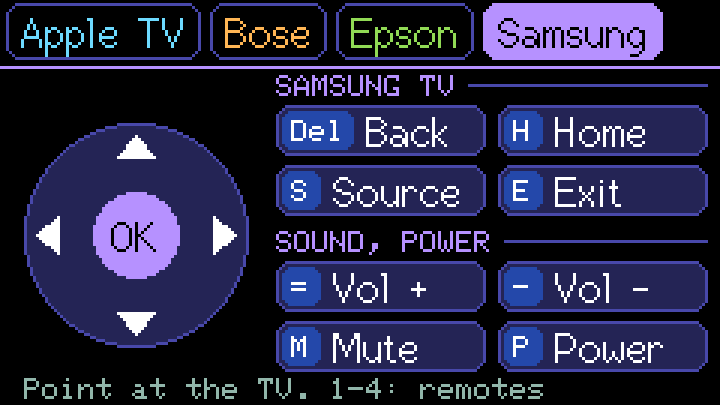
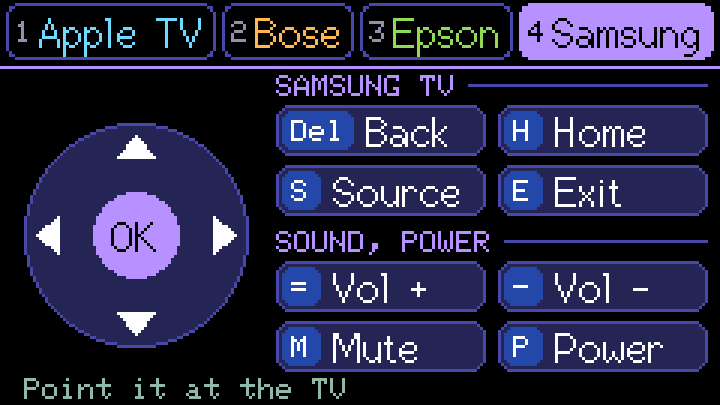
feat(cardputer): number TV Remote's tabs, and give Epson volume in place of Source
On the device every page worked, the Bose with its 600 codes, except Epson's
Source, which HDMI 1 and 2 make unneeded. So it goes, and the Epson page gets
its own remote's volume keys instead, = and -: with its sound going out over
HDMI to a soundbar, they turn that up and down. They're NECext 83 55 98 and
99, as all four Epson files have them. Its keys are now grouped like the
other pages', EPSON (Power, HDMI 1, HDMI 2, Menu, Back, Blank) and VOLUME.

Each tab now shows the number that opens it, in the small font before the
name, so all four still fit across the top; with that on screen, the idle
line no longer needs to say 1-4.

diff --git a/scripts/test_tv_remote.py b/scripts/test_tv_remote.py
@@ -260,7 +260,7 @@ void pagesScenario() {
   assert(gTvPage == Device::AppleTv && gTvBoseSet == 0);
   // 2, the Bose: its volume rocker and buttons, and the codes it's using.
   press('2'); assert(gTvPage == Device::Bose && savedBytes["tv_remote/page"] == 1);
-  for (const char* t : {"Power", "Mute", "TV input", "Bluetooth input", "Codes: 600 remote", "VOLUME", "Point at the Bose. C: other codes"}) assert(shows(t));
+  for (const char* t : {"Power", "Mute", "TV input", "Bluetooth input", "Codes: 600 remote", "VOLUME", "Point it at the Bose. C: other codes"}) assert(shows(t));
   press('='); assert(ir.back().kind == 'B' && lastIr() == boseIr(Action::VolumeUp) && shows("Volume up to the Bose"));
   assert(gTvFlash == (Press{Device::Bose, Action::VolumeUp}));
   release(); press('-'); later(450); assert(lastIr() == boseIr(Action::VolumeDown) && ir.end()[-2].value == boseIr(Action::VolumeDown)); release(); later(0);
@@ -283,9 +283,12 @@ void pagesScenario() {
   press('c'); assert(gTvBoseSet == 0 && savedBytes["tv_remote/bose"] == 0);
   // 3, the projector: power, inputs, menu and its ring.
   press('3'); assert(gTvPage == Device::Epson);
-  for (const char* t : {"Power", "Source", "HDMI 1", "HDMI 2", "Menu", "Back", "Blank", "OK", "Point at the projector. 1-4: remotes"}) assert(shows(t));
+  for (const char* t : {"EPSON", "Power", "HDMI 1", "HDMI 2", "Menu", "Back", "Blank", "VOLUME", "Vol +", "Vol -", "OK", "Point it at the projector"}) assert(shows(t));
+  assert(!shows("Source"));
   press('p'); assert(lastIr() == epsonIr(Action::Power) && shows("Power: twice turns the projector off"));
-  press('s'); assert(lastIr() == epsonIr(Action::Source) && shows("Source to the projector"));
+  n = ir.size(); press('s'); assert(ir.size() == n);  // No Source: HDMI 1 and 2 choose the input.
+  press('='); assert(lastIr() == epsonIr(Action::VolumeUp) && shows("Volume up to the projector") && gTvFlash == (Press{Device::Epson, Action::VolumeUp}));
+  release(); press('-'); later(450); assert(lastIr() == epsonIr(Action::VolumeDown) && ir.end()[-2].value == epsonIr(Action::VolumeDown)); release(); later(0);
   press('i'); assert(lastIr() == epsonIr(Action::Hdmi1) && shows("HDMI 1 to the projector"));
   press('O'); assert(lastIr() == epsonIr(Action::Hdmi2));
   press('m'); assert(lastIr() == epsonIr(Action::Menu));
@@ -294,10 +297,10 @@ void pagesScenario() {
   press('/'); assert(lastIr() == epsonIr(Action::Right) && gCanvas.arcs == 2);
   enter(); assert(lastIr() == epsonIr(Action::Select)); del(); assert(lastIr() == epsonIr(Action::Back));
   release(); press('.'); later(450); assert(lastIr() == epsonIr(Action::Down) && ir.end()[-2].value == epsonIr(Action::Down)); release(); later(0);
-  n = ir.size(); press('='); assert(ir.size() == n && shows("P power, I O HDMI 1 2, S source"));
+  n = ir.size(); press('x'); assert(ir.size() == n && shows("P power, I O HDMI 1 2, = - volume"));
   // 4, the Samsung: its ring, Back, Home, Source and Exit, and its volume, mute and power.
   press('4'); assert(gTvPage == Device::Samsung);
-  for (const char* t : {"SAMSUNG TV", "Back", "Home", "Source", "Exit", "SOUND, POWER", "Vol +", "Vol -", "Power", "Mute", "OK", "Point at the TV. 1-4: remotes"}) assert(shows(t));
+  for (const char* t : {"SAMSUNG TV", "Back", "Home", "Source", "Exit", "SOUND, POWER", "Vol +", "Vol -", "Power", "Mute", "OK", "Point it at the TV"}) assert(shows(t));
   press(';'); assert(lastIr() == samsungIr(Action::Up) && gCanvas.arcs == 1 && shows("Up to the TV"));
   press('/'); assert(lastIr() == samsungIr(Action::Right));
   enter(); assert(lastIr() == samsungIr(Action::Select)); del(); assert(lastIr() == samsungIr(Action::Back));
@@ -345,7 +348,8 @@ int main() {
   }
   // Epson: NECext 83 55, the command and its inverse, as every Epson file has them (EH-TW5650 and others).
   const auto ep = [](Action a) { return irCode({Device::Epson, a}).nec; };
-  assert(bytes(ep(Action::Power)) == (B{0x83, 0x55, 0x90, 0x6F}) && bytes(ep(Action::Source)) == (B{0x83, 0x55, 0x8C, 0x73}));
+  assert(bytes(ep(Action::Power)) == (B{0x83, 0x55, 0x90, 0x6F}) && irCode({Device::Epson, Action::Source}).protocol == IrProtocol::None);
+  assert(bytes(ep(Action::VolumeUp)) == (B{0x83, 0x55, 0x98, 0x67}) && bytes(ep(Action::VolumeDown)) == (B{0x83, 0x55, 0x99, 0x66}));
   assert(bytes(ep(Action::Hdmi1)) == (B{0x83, 0x55, 0x73, 0x8C}) && bytes(ep(Action::Hdmi2)) == (B{0x83, 0x55, 0x77, 0x88}));
   assert(bytes(ep(Action::Menu)) == (B{0x83, 0x55, 0x9A, 0x65}) && bytes(ep(Action::Back)) == (B{0x83, 0x55, 0x84, 0x7B}));
   assert(bytes(ep(Action::Select)) == (B{0x83, 0x55, 0x85, 0x7A}) && bytes(ep(Action::Blank)) == (B{0x83, 0x55, 0x93, 0x6C}));
@@ -418,7 +422,7 @@ int main() {
         if (Device(d) != Device::Bose) break;  // Only the Bose has two sets.
       }
     }
-  assert(frames.size() == 9 + 12 + 6 * 2 + 13);
+  assert(frames.size() == 9 + 13 + 6 * 2 + 13);
   std::sort(frames.begin(), frames.end()); assert(std::adjacent_find(frames.begin(), frames.end()) == frames.end());
   for (Action a : {Action::Bluetooth, Action::Typing, Action::Forget, Action::None, Action::Codes}) assert(irCode({Device::AppleTv, a}).protocol == IrProtocol::None);
 
@@ -464,11 +468,14 @@ int main() {
   assert(key(Device::Bose, 't') == (P{Device::Bose, Action::TvInput}) && key(Device::Bose, 'B') == (P{Device::Bose, Action::BluetoothInput}));
   assert(key(Device::Bose, 'c') == (P{Device::Bose, Action::Codes}) && key(Device::Bose, '+') == (P{Device::Bose, Action::VolumeUp}));
   assert(key(Device::Bose, ';').action == Action::None && keyFor(Device::Bose, 'x', true, false).action == Action::None);
-  assert(key(Device::Epson, 'p') == (P{Device::Epson, Action::Power}) && key(Device::Epson, 'S') == (P{Device::Epson, Action::Source}));
+  assert(key(Device::Epson, 'p') == (P{Device::Epson, Action::Power}) && key(Device::Epson, 'S').action == Action::None);
   assert(key(Device::Epson, 'i') == (P{Device::Epson, Action::Hdmi1}) && key(Device::Epson, 'o') == (P{Device::Epson, Action::Hdmi2}));
   assert(key(Device::Epson, 'm') == (P{Device::Epson, Action::Menu}) && key(Device::Epson, 'b') == (P{Device::Epson, Action::Blank}));
   assert(key(Device::Epson, '/') == (P{Device::Epson, Action::Right}) && keyFor(Device::Epson, 'x', false, true) == (P{Device::Epson, Action::Back}));
-  assert(key(Device::Epson, '=').action == Action::None && key(Device::Epson, 'h').action == Action::None);
+  // Its own volume keys, as its remote has them.
+  assert(key(Device::Epson, '=') == (P{Device::Epson, Action::VolumeUp}) && key(Device::Epson, '+') == (P{Device::Epson, Action::VolumeUp}));
+  assert(key(Device::Epson, '-') == (P{Device::Epson, Action::VolumeDown}) && key(Device::Epson, 'm') == (P{Device::Epson, Action::Menu}));
+  assert(key(Device::Epson, 'h').action == Action::None);
   assert(key(Device::Samsung, '=') == (P{Device::Samsung, Action::VolumeUp}) && key(Device::Samsung, 'p') == (P{Device::Samsung, Action::Power}));
   assert(key(Device::Samsung, ';') == (P{Device::Samsung, Action::Up}) && key(Device::Samsung, 'h') == (P{Device::Samsung, Action::Home}));
   assert(keyFor(Device::Samsung, 'x', true, false) == (P{Device::Samsung, Action::Select}) && keyFor(Device::Samsung, 'x', false, true) == (P{Device::Samsung, Action::Back}));
@@ -484,7 +491,7 @@ int main() {
   saved["tv_remote/bt"] = true;
   beginTvRemote(); render();
   assert(tv_ble::starts == 0 && WiFi.m == WIFI_STA && emojiClears == 0 && shows("APPLE TV") && shows("BOSE SOUND"));
-  for (const char* tab : {"Apple TV", "Bose", "Epson", "Samsung"}) assert(shows(tab));
+  for (const char* tab : {"Apple TV", "Bose", "Epson", "Samsung", "1", "2", "3", "4"}) assert(shows(tab));
   for (const char* s : {"Del", "Back", "Spc", "Play", "H", "Home", "Z", "Sleep", "=", "Vol +", "-", "Vol -", "M", "Mute", "P", "Power", "OK"}) assert(shows(s));
   assert(!shows("T") && !shows("Type") && !shows("B") && !showsPart("BT") && !showsPart("Bluetooth"));
   for (char c : {'b', 't', 'B'}) { press(c); assert(shows("Bluetooth isn't in this version") && !tvRemoteTakesText()); }
@@ -502,7 +509,7 @@ int main() {
 #endif
   // Opened with Bluetooth off, as it starts: everything goes by infrared.
   beginTvRemote(); render();
-  assert(tv_ble::starts == 0 && irInits > 0 && shows("Apple TV") && shows("Point at the Apple TV. 1-4: remotes") && overlays == 1);
+  assert(tv_ble::starts == 0 && irInits > 0 && shows("Apple TV") && shows("Point it at the Apple TV") && overlays == 1);
   for (const char* s : {"Del", "Back", "Spc", "Play", "H", "Home", "Z", "Sleep", "T", "Type", "B", "BT on", "=", "Vol +", "-", "Vol -", "M", "Mute", "P", "Power", "OK"}) assert(shows(s));
   assert(gCanvas.arcs == 0);  // Nothing lit yet.
   assert(!tvRemoteTakesText());

diff --git a/bots/CardputerADV/src/tv_remote.h b/bots/CardputerADV/src/tv_remote.h
@@ -27,7 +27,7 @@ enum class Action : uint8_t {
   PlayPause, Home, Sleep,
   // Sound, and power.
   VolumeUp, VolumeDown, Mute, Power,
-  // The projector, and the Samsung's Source and Exit.
+  // The projector's, and the Samsung's Source and Exit.
   Source, Hdmi1, Hdmi2, Menu, Blank, Exit,
   // The Bose.
   TvInput, BluetoothInput, Codes,
@@ -97,9 +97,11 @@ constexpr Press keyFor(Device page, char key, bool enter, bool del) {
       }
     case Device::Epson:
       if (const Action ring = ringKey(key, enter, del); ring != Action::None) return {Device::Epson, ring};
+      // Its own remote's volume keys: with its sound going out over HDMI, they turn that up and down.
+      if (key == '=' || key == '+') return {Device::Epson, Action::VolumeUp};
+      if (key == '-' || key == '_') return {Device::Epson, Action::VolumeDown};
       switch (key) {
         case 'p': case 'P': return {Device::Epson, Action::Power};
-        case 's': case 'S': return {Device::Epson, Action::Source};
         case 'i': case 'I': return {Device::Epson, Action::Hdmi1};
         case 'o': case 'O': return {Device::Epson, Action::Hdmi2};
         case 'm': case 'M': return {Device::Epson, Action::Menu};
@@ -219,11 +221,12 @@ constexpr IrCode irCode(Press p, uint8_t boseSet = 0) {
     case Device::Epson:
       switch (p.action) {
         case Action::Power: return epson(0x90);
-        case Action::Source: return epson(0x8C);
         case Action::Hdmi1: return epson(0x73);
         case Action::Hdmi2: return epson(0x77);
         case Action::Menu: return epson(0x9A);
         case Action::Blank: return epson(0x93);
+        case Action::VolumeUp: return epson(0x98);
+        case Action::VolumeDown: return epson(0x99);
         case Action::Up: return epson(0xB0);
         case Action::Down: return epson(0xB2);
         case Action::Left: return epson(0xB3);

diff --git a/docs/TV-REMOTE.md b/docs/TV-REMOTE.md
@@ -9,7 +9,7 @@
 
 Tab, T, TV Remote, or type `/tv`. It's a remote for four devices, a page each: an **Apple
 TV**, a **Bose** soundbar, an **Epson** projector and a **Samsung** TV. Press **1** to **4** to
-change page; it opens on the page you used last. Everything goes by infrared, so point the
+change page, as each tab shows; it opens on the page you used last. Everything goes by infrared, so point the
 Cardputer at the device, as you would its own remote.
 
 ![TV Remote on the Apple TV page: tabs for the four devices, the arrows around OK, the Apple TV's Back, Play, Home and Sleep, and the Bose's volume, mute and power](assets/screens/tv-remote.png)
@@ -60,22 +60,21 @@ is in use, and it's kept for next time.
 
 ## 3 Epson
 
-![The Epson page: the arrows around OK for its menus, then Power, Source, HDMI 1, HDMI 2, Menu, Back and Blank](assets/screens/tv-remote-epson.png)
+![The Epson page: the arrows around OK for its menus, then Power, HDMI 1, HDMI 2, Menu, Back and Blank, and its volume](assets/screens/tv-remote-epson.png)
 
 | Key | What it does |
 |---|---|
 | P | Power. To turn it off, press P again when the projector asks |
 | I | HDMI 1 |
 | O | HDMI 2 |
-| S | Source: the projector looks for a picture |
 | M | Menu |
 | `;` `.` `,` `/`, Enter, Del | Move in its menus, OK and Back |
 | B | Blank: the picture and sound off and on, the projector still running |
+| `=` `-` | Volume, as its own remote's volume keys: with its sound going out over HDMI to a soundbar, they turn that up and down |
 
 Epson projectors share one set of codes. These are from the remote of an Epson EH-TW5650, a home
 cinema projector, and three other Epson remotes agree, but not every model has every key, so one
-may do nothing on yours. The projector has no volume of its own here: the
-Apple TV page's volume keys work the Bose.
+may do nothing on yours.
 
 ## 4 Samsung
 
@@ -158,9 +157,6 @@ fast memory.
 
 Checked on a computer, not yet with the devices:
 
-- Which Bose code set a given Bose soundbar answers, if either.
-- Which of the Epson keys a given Epson projector answers. Power, HDMI 1 and HDMI 2 are the likeliest.
-- The Samsung's arrows, OK, Return, Home, Source and Exit. Its volume, mute and power work.
 - Pairing with no code, reconnecting by itself, and which keys the Apple TV takes from a keyboard.
   Esc for Back and a media key for Play/Pause are my best reading, not something seen working.
 - How much memory Bluetooth takes while it's on, and whether it starts again cleanly after

diff --git a/docs/CONTROLS.md b/docs/CONTROLS.md
@@ -199,8 +199,8 @@ TV Remote is under Tab, Tools, and `/tv` opens it. It has a page for each device
 Apple TV, **2** Bose, **3** Epson, **4** Samsung, and it opens on the last one used. On the Apple TV
 page `;` `.` `,` `/` move, Enter is OK, Del is Back, Space plays or pauses, H is Home and Z is
 Sleep, and `=` `-` M P are the Bose's volume, mute and power. The Bose page has its inputs, and C
-switches between the two Bose code sets. The Epson page has power, HDMI 1 (I), HDMI 2 (O), Source,
-Menu and its own arrows, and the Samsung page its arrows, Home (H), Source (S) and Exit (E). Holding
+switches between the two Bose code sets. The Epson page has power, HDMI 1 (I), HDMI 2 (O), Menu,
+its own arrows and volume, and the Samsung page its arrows, Home (H), Source (S) and Exit (E). Holding
 an arrow or the volume keeps it going. Bluetooth (B) and typing
 (T) are out of the firmware for now, because having Bluetooth in it left too little memory for
 HTTPS. [TV Remote](TV-REMOTE.md) has the details, including how
